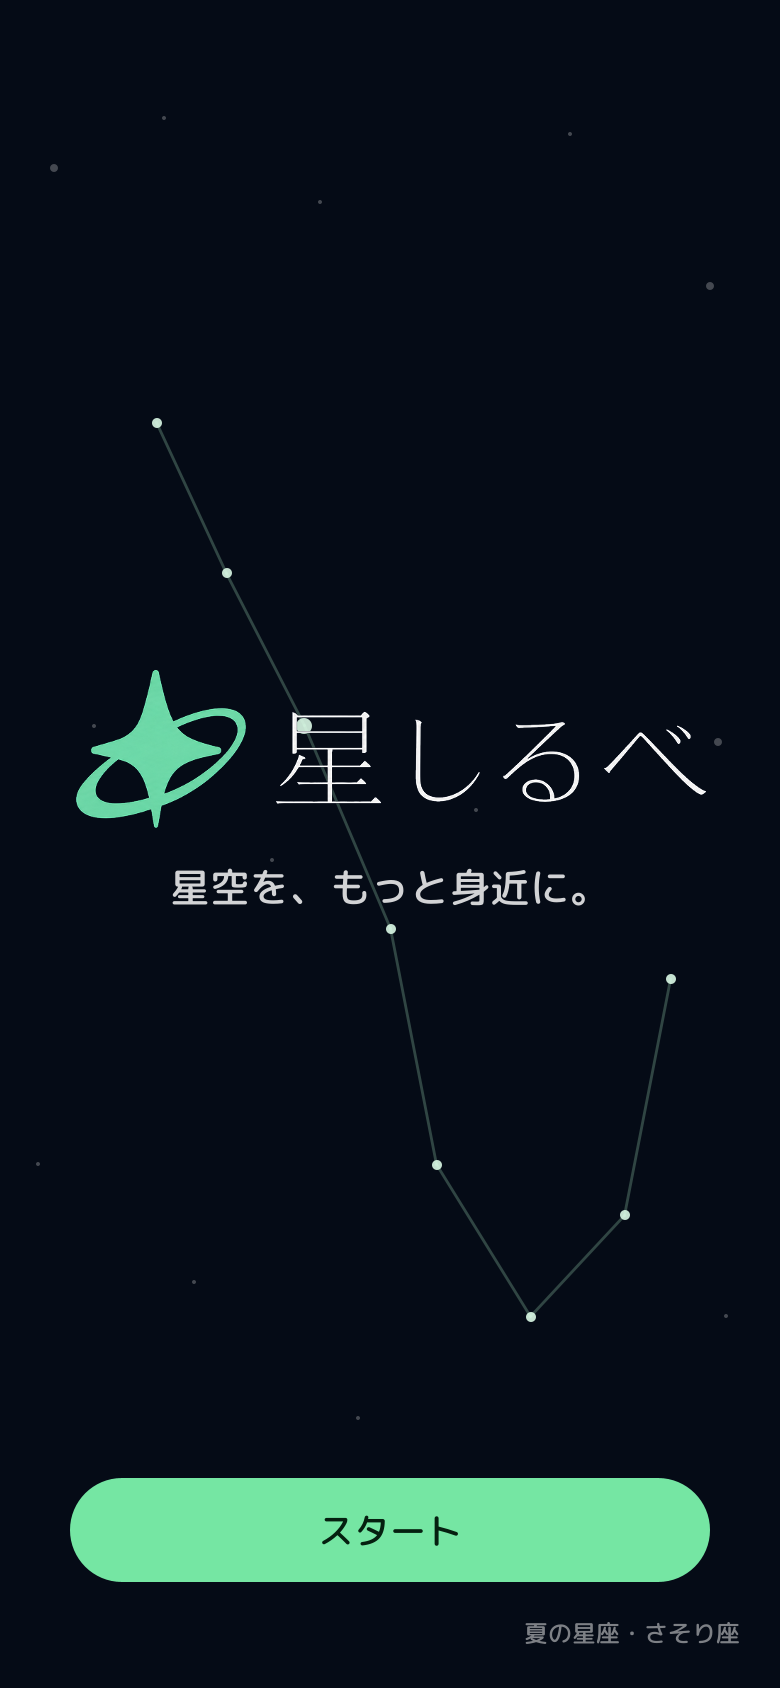
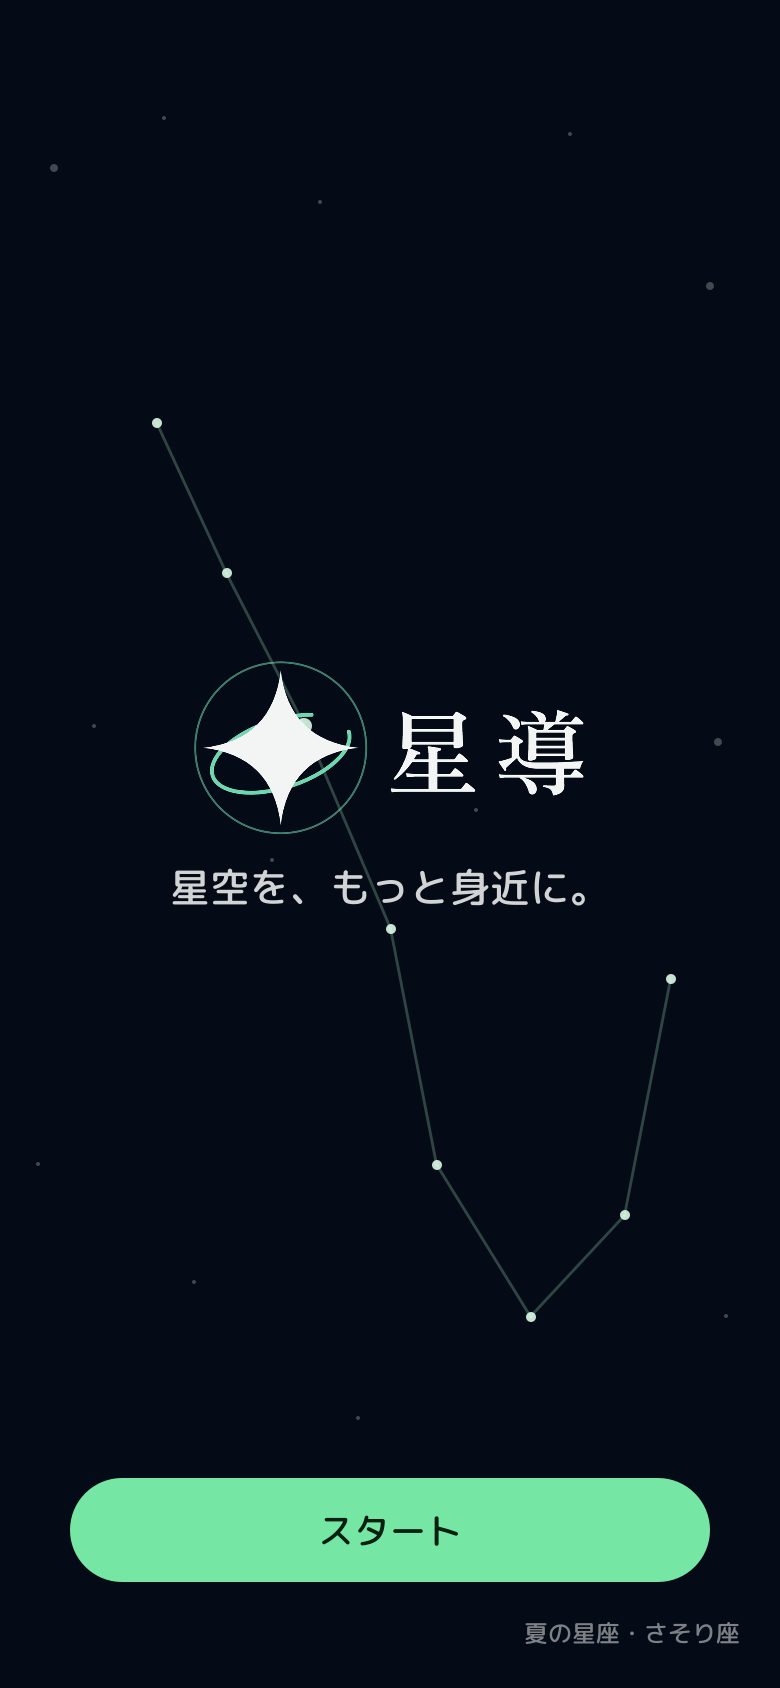
fix: 資料画像のロゴが縦横比を無視して潰れるのを直す
ロゴを 326x92 の枠へ決め打ちで描いていて、旧素材の縦横比（3.54:1）が
前提のままだった。新しい印は丸いので、そのまま作り直すと楕円になる。
実装と同じ「縦横比を保って枠に収める」（ContentScale.Fit 相当）へ変えた。

アプリ本体は元から ContentScale.Fit なので、潰れていたのは資料画像だけ。

Changed region(s): [[0.0923, 0.4005, 0.6154, 0.4929], [0.6462, 0.4005, 0.7385, 0.4929], [0.7692, 0.4313, 0.8923, 0.4621]]

diff --git a/tools/compose-phone-preview.java b/tools/compose-phone-preview.java
@@ -46,7 +46,15 @@ public class compose_phone_preview {
         drawBackground(g);
 
         BufferedImage logo = ImageIO.read(logoPath.toFile());
-        g.drawImage(logo, 32, 328, 326, 92, null);
+        // **枠に押し込めず、縦横比を保って中へ収める**（実装の ContentScale.Fit と同じ）。
+        // 大きさを決め打つと、素材の縦横比が変わったときに丸い印が楕円になる
+        int boxWidth = 326;
+        int boxHeight = 92;
+        double fit = Math.min(boxWidth / (double) logo.getWidth(), boxHeight / (double) logo.getHeight());
+        int drawWidth = (int) Math.round(logo.getWidth() * fit);
+        int drawHeight = (int) Math.round(logo.getHeight() * fit);
+        g.drawImage(logo, 32 + (boxWidth - drawWidth) / 2, 328 + (boxHeight - drawHeight) / 2,
+            drawWidth, drawHeight, null);
 
         Font medium = Font.createFont(Font.TRUETYPE_FONT, fontPath.toFile());
         drawCentered(g, "星空を、もっと身近に。", medium.deriveFont(20f), Color.WHITE, 0.82f, 451);
